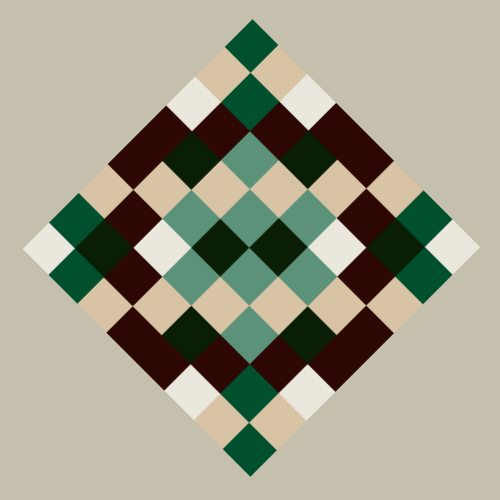
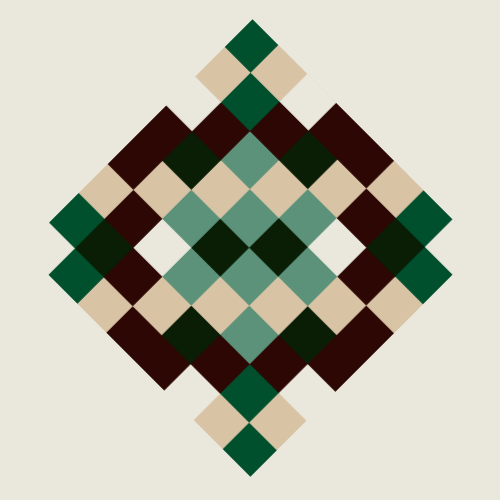
changing colorscheme

diff --git a/_sass/minima/_layout.scss b/_sass/minima/_layout.scss
@@ -115,7 +115,7 @@ max-height: 20 * $spacing-unit;
 
   //border-radius: 0;
   //border-left: .5px solid $wrap-border-color;
-  border: 1px solid $wrap-border-color;
+  //border: 1px solid $wrap-border-color;
  }
 
 .table-contents {
@@ -125,6 +125,7 @@ max-height: 20 * $spacing-unit;
   //border: .5px solid $wrap-border-color;
   align-items: center;
   justify-content: center;
+  width: 90%;
  //flex: 1;
   //border-radius: 0;
   background-color: $post_color;
@@ -154,10 +155,11 @@ max-height: 20 * $spacing-unit;
 
 .table-item {
   display: flex;
-  padding: .4 * $spacing-unit;
+  //padding: .4 * $spacing-unit;
   //margin: .5 * $spacing-unit;
-
+  width: 100%;
   flex-wrap: wrap;
+  justify-content: center;
   //height: 2 * $spacing-unit;
 }
 
@@ -167,7 +169,7 @@ max-height: 20 * $spacing-unit;
   //display: flex;
   align-items: center;
   //color: $grey-color;
-  @include relative-font-size(1);
+  @include relative-font-size(1.25);
   //text-align: left;
 }
 
@@ -285,7 +287,8 @@ height: 100%;
   @include increased-font-size(5);
   //white-space:nowrap; 
   //@include relative-line-height(2);
-
+  //font-color: darken($brand-color, 10%);
+ 
   font-weight: 300;
   line-height: $base-line-height * $base-font-size * 3;
   letter-spacing: 1px;
@@ -551,10 +554,9 @@ height: 100%;
   flex-wrap: wrap;
   width: 95%;
   //padding-top: 2 * $spacing-unit;
-  padding-top: min(9vw, 4 * $spacing-unit);
-  line-height: 1.4;
+  padding-top: min(7vw, 3 * $spacing-unit);
+  line-height: 1.47;
   //max-height: 10 * $spacing-unit;
- 
 
   //margin: .5 * $spacing-unit;
 

diff --git a/_sass/minima/_base.scss b/_sass/minima/_base.scss
@@ -167,8 +167,10 @@ h1, h2, h3, h4, h5, h6 {
  * Links
  */
 a {
-  //color: $brand-color;
-  color: darken($brand-color, 25%);
+  color: $brand-color;
+  color: darken($brand-color, 10%);
+  //color: lighten($brand-color, 10%);
+ 
   //color: #0000EE;
   text-decoration: none;
 
@@ -286,10 +288,11 @@ pre {
   display: flex;
   //flex: 1;
   background-color: $wrapper_color;
-  margin: 1vw;
+  //margin: 1vw;
   align-items: center;
   justify-content: center;
   margin-bottom: .5 * $spacing-unit;
+  width: 30%;
 
   //height: 3 * $spacing-unit;
   //margin-top: 25%;

diff --git a/_sass/minima.scss b/_sass/minima.scss
@@ -43,11 +43,16 @@ $header-footer-color: $post-color;
 */
 
 //notebook
-$wrapper-color: #c5c0ae !default;
+//$wrapper-color: #EAE6E5 !default;
+$wrapper-color: #eae7dc !default;
+
+//$wrapper-color: #c5c0ae !default;
 $post-color: $wrapper-color; 
-$wrapper-color: #986c6a !default;
+//$wrapper-color: #986c6a !default;
 //$post-color: #eae7dc !default;
+//$background-color: #000000 !default;
 $background-color: #294d4a !default;
+
 $wrap-border-color: $background-color;
 $grey-color: #000000 !default;
 $brand-color: $background-color;
